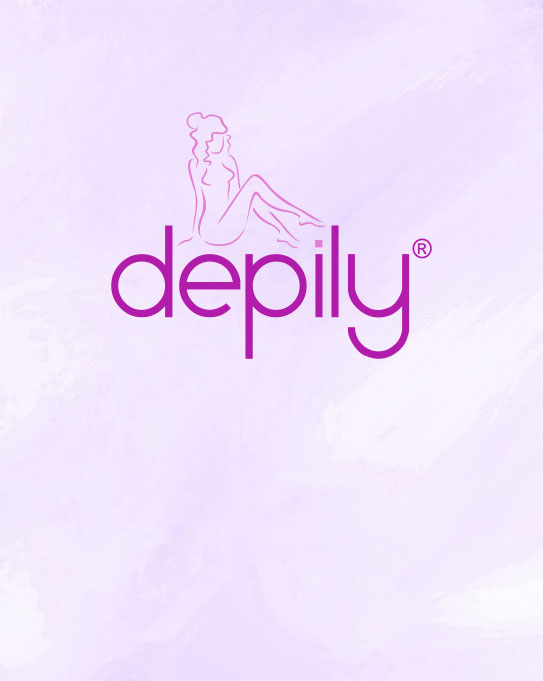
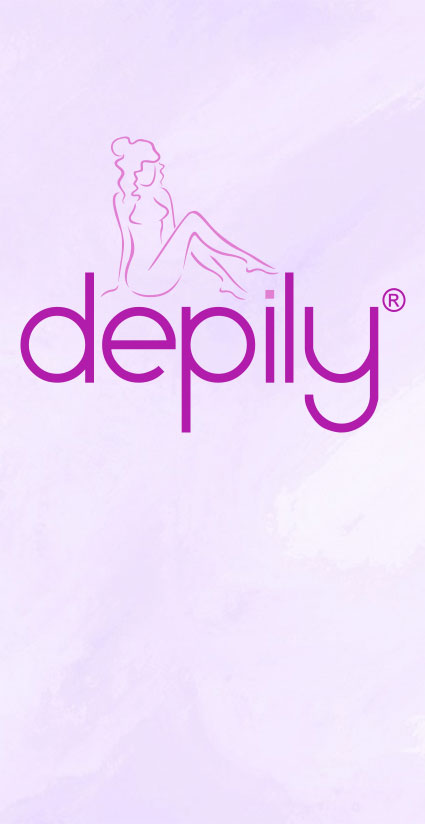
EDITANDO PORTADA PRINCIPAL

Changed region(s): [[0.0306, 0.1542, 0.9482, 0.5242]]

diff --git a/src/css/estilos.css b/src/css/estilos.css
@@ -8,6 +8,33 @@
     background-image: url(../../img/texturas/papel.svg);
 }
 
+.portada-principal{
+    background-image: url(../../img/portada-principal.jpg);
+    height: 100vh;
+    width: 100%;
+    background-size: cover;
+    background-repeat: no-repeat;
+    background-position-y: 50px;
+
+    display: flex;
+    align-items: flex-end;
+    justify-content: center;
+}
+
+.portada-principal div img{
+    height: 268px;
+    padding-bottom: 30px;
+    transition: transform 0.3s ease-in-out;
+}
+
+.portada-principal div img:hover{
+    transform: translateY(-10px);
+}
+
+.portada-principal div{
+    display: flex;
+}
+
 .navBar{
     background-color: #f4f4f4;
 }
@@ -692,6 +719,10 @@ h4{
 /* TODO MOBILE ABRIL PARTE DE PRODUCTOS-DETALLES Y HOME */
 
 @media screen and (max-width: 1440px){
+    .portada-principal{
+        background-position-x: center;
+    }
+    
     div div .carousel.slide .carousel-inner .carousel-caption {
         bottom: 112px;
     }
@@ -720,6 +751,10 @@ h4{
 }
 
 @media screen and (max-width: 1024px){
+    .portada-principal{
+        background-position-x: center;
+    }
+
     nav .container div .navbar-nav{
         margin-left: 0;
     }
@@ -824,6 +859,15 @@ h4{
 }
 
 @media screen and (max-width: 768px){
+
+    .portada-principal{
+        background-position-x: center;
+    }
+
+    .portada-principal div img {
+        height: 212px;
+    }
+
     section div.info2,
     section div.info3{
         flex-direction: column;
@@ -856,7 +900,7 @@ h4{
     }
 
     .info {
-        margin-top: 40%;
+        margin-top: 20%;
         margin-left: 114px;
         margin-right: 24px;
     }
@@ -960,6 +1004,18 @@ h4{
 
 @media screen and (max-width: 425px){ 
 
+    .portada-principal{
+        background-image: url(../../img/portada-principal-mobile.jpg);
+        flex-direction: column;
+        background-size: auto;
+        justify-content: flex-end;
+    }
+
+    .portada-principal div img {
+        height: 138px;
+        padding-bottom: 34px;
+    }
+
     .carousel-inner {
         height: 24pc; /* Ajusta la altura según tus necesidades */
     }
@@ -1036,13 +1092,13 @@ h4{
     }
 
     .info {
-        margin-top: 40%;
+        margin-top: 20%;
         margin-left: 114px;
         margin-right: 24px;
     }
 
     section div.info3{
-        margin-top: 50%;
+        margin-top: 40px;
     }
 
     section div .img2,
@@ -1064,7 +1120,7 @@ h4{
     
 
     .productsHome, .clientes {
-        margin-top: 40%;
+        margin-top: 20%;
     }
 
     .clientes .opiniones{
@@ -1072,7 +1128,7 @@ h4{
     }
 
     .clientes .opiniones div {
-        margin-bottom: 120px;
+        margin-bottom: 60px;
         margin-top: 10px;
     }
 
@@ -1087,7 +1143,7 @@ h4{
         margin-left: 12%;
     }
     .contact{
-        padding-bottom: 120px;
+        padding-bottom: 60px;
     }
 
     .contact p {

diff --git a/src/pages/HomePage.jsx b/src/pages/HomePage.jsx
@@ -1,10 +1,10 @@
 import { Helmet } from "react-helmet"
 import CardsProduct from "../components/CardsProduct"
-import CarouselHome from "../components/CarouselHome"
 import { useEffect } from "react";
 import AOS from 'aos';
 import 'aos/dist/aos.css';
 import { Link } from "react-router-dom";
+import productos from "../assets/productos.json";
 
 function HomePage(){
     useEffect(() => {
@@ -26,7 +26,16 @@ function HomePage(){
             <Helmet>
             <title>Depily</title>
             </Helmet>
-            <CarouselHome></CarouselHome>
+
+            <section className="portada-principal">
+                <div>
+                {productos.productos.slice(0, -1).map((producto, index) => (
+                    <Link to={`/productos/${producto.id}`} key={index}>
+                        <img src={producto.images[0]} alt={producto.nombre} />
+                    </Link>
+                ))}
+                </div>
+            </section>
 
             <section className="info">
                 <div className="info2" data-aos="fade-up">
